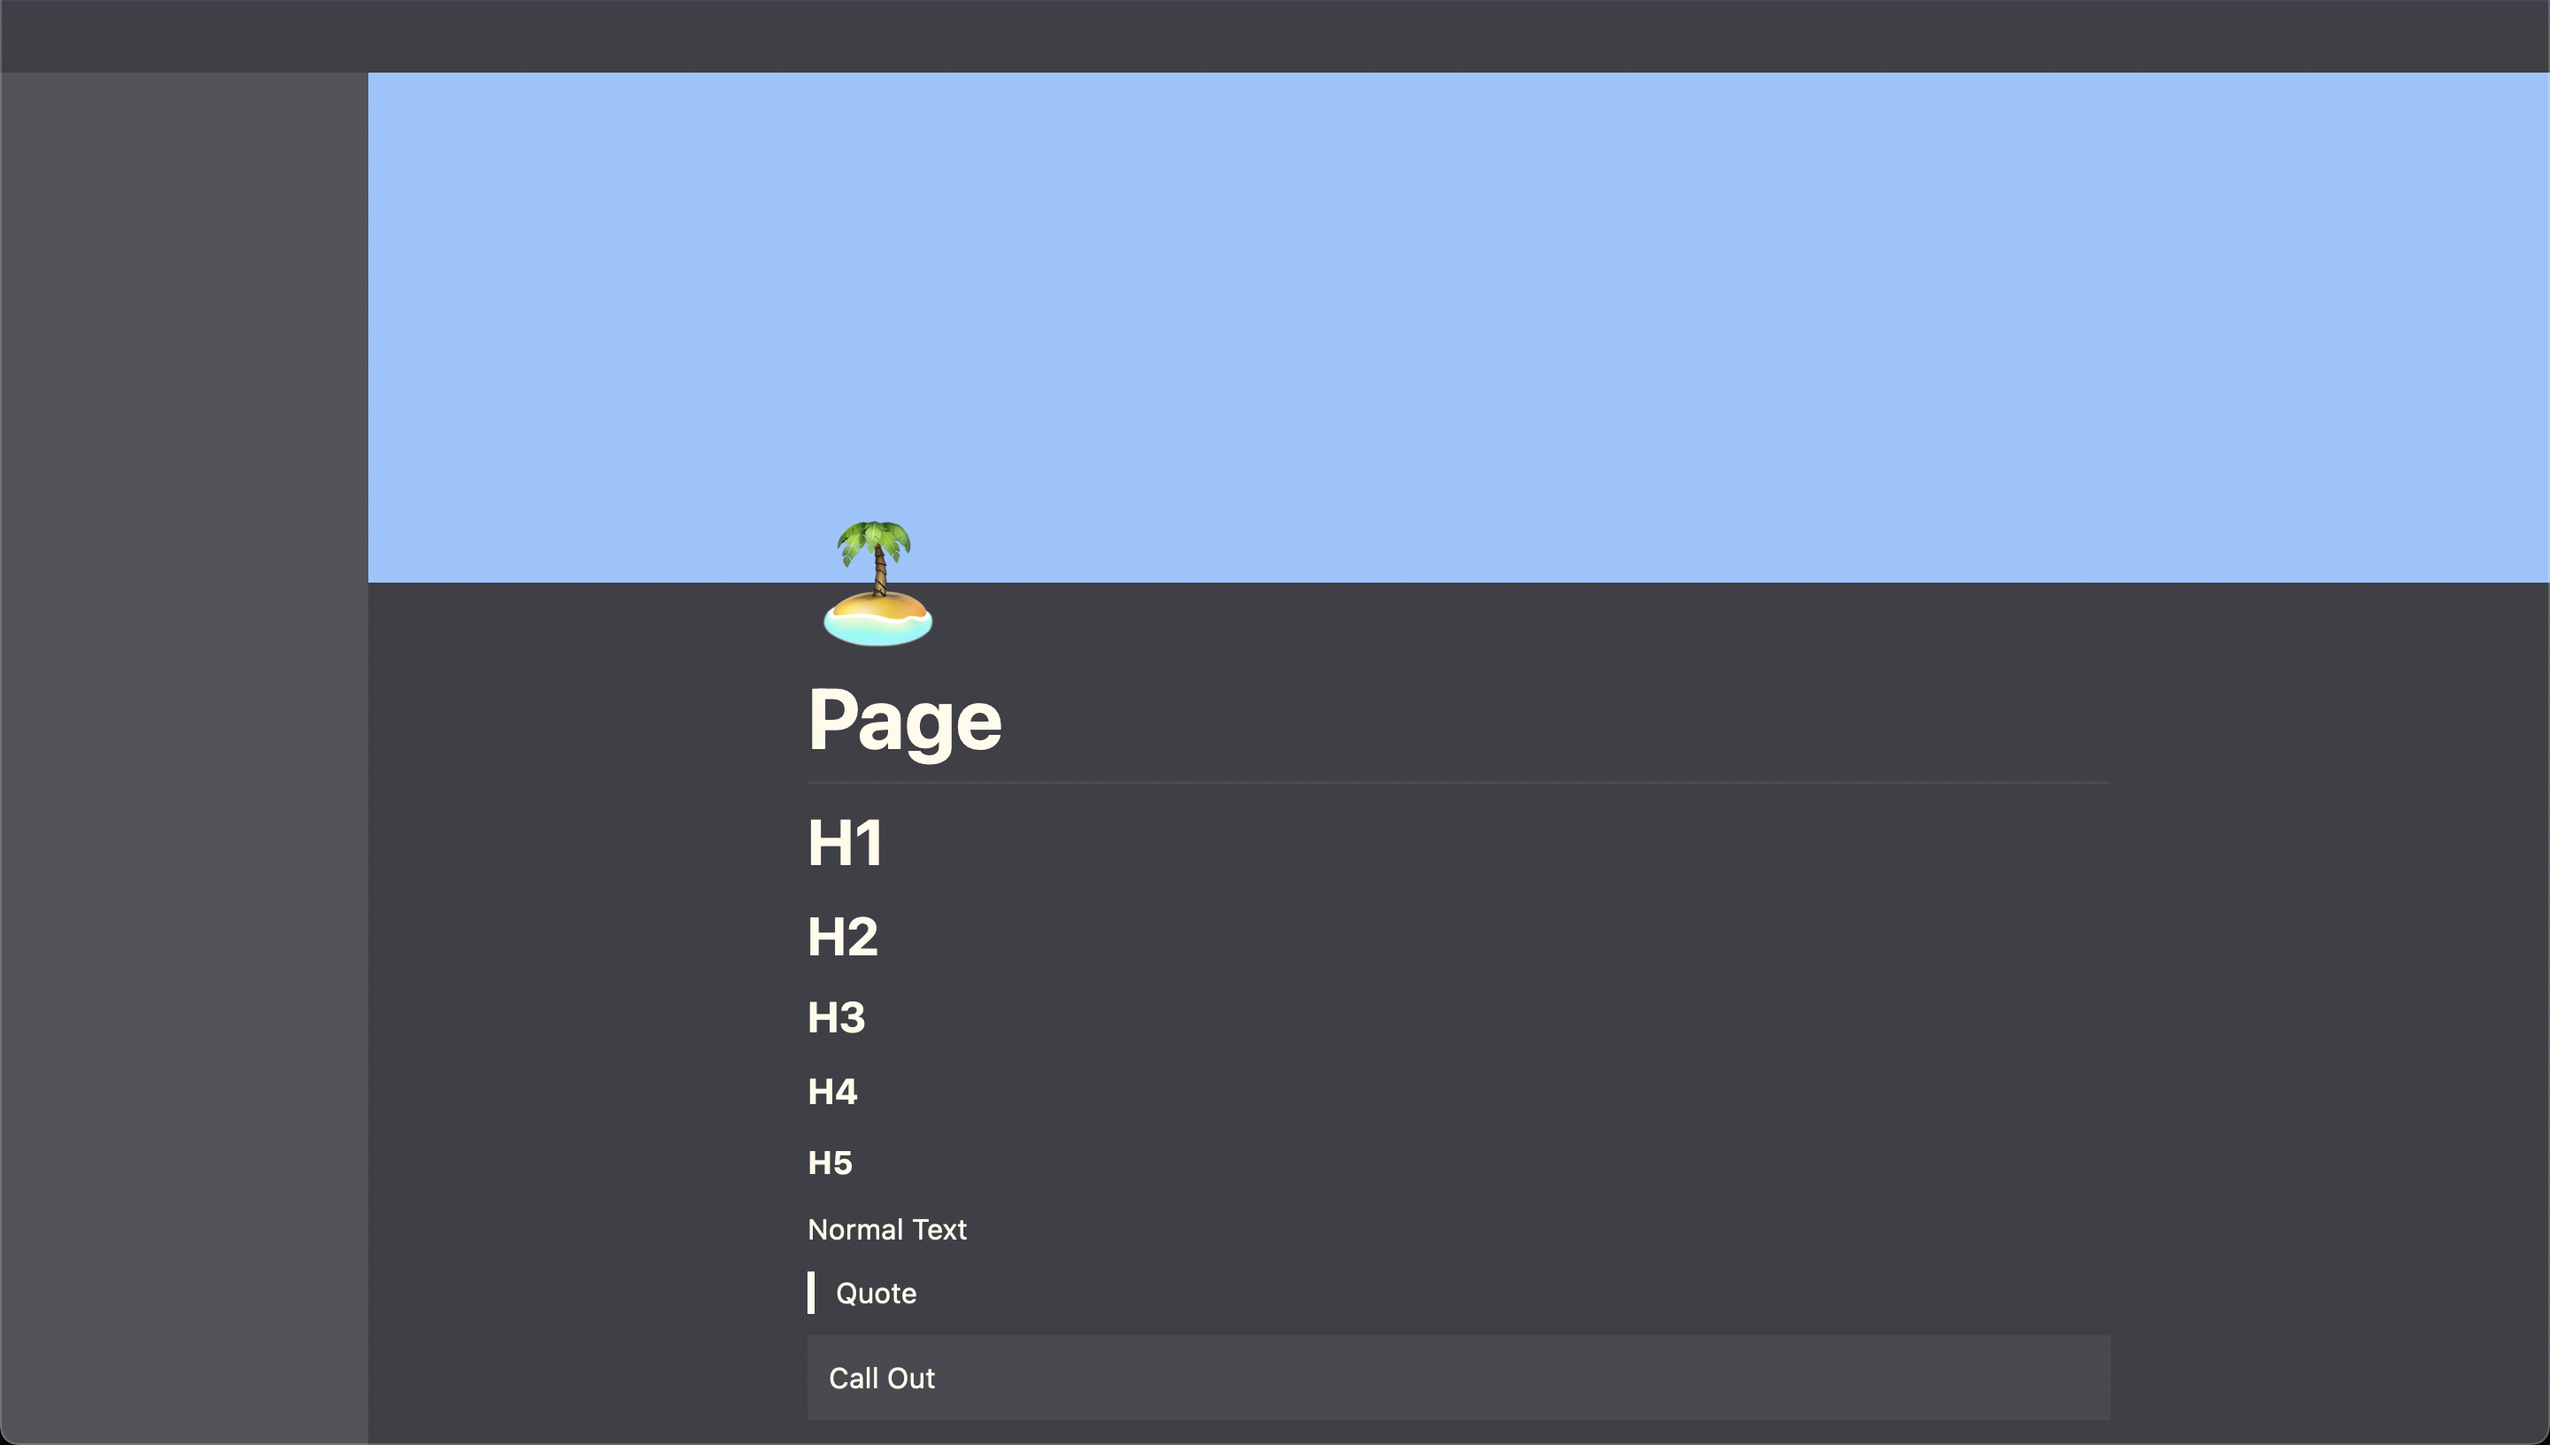
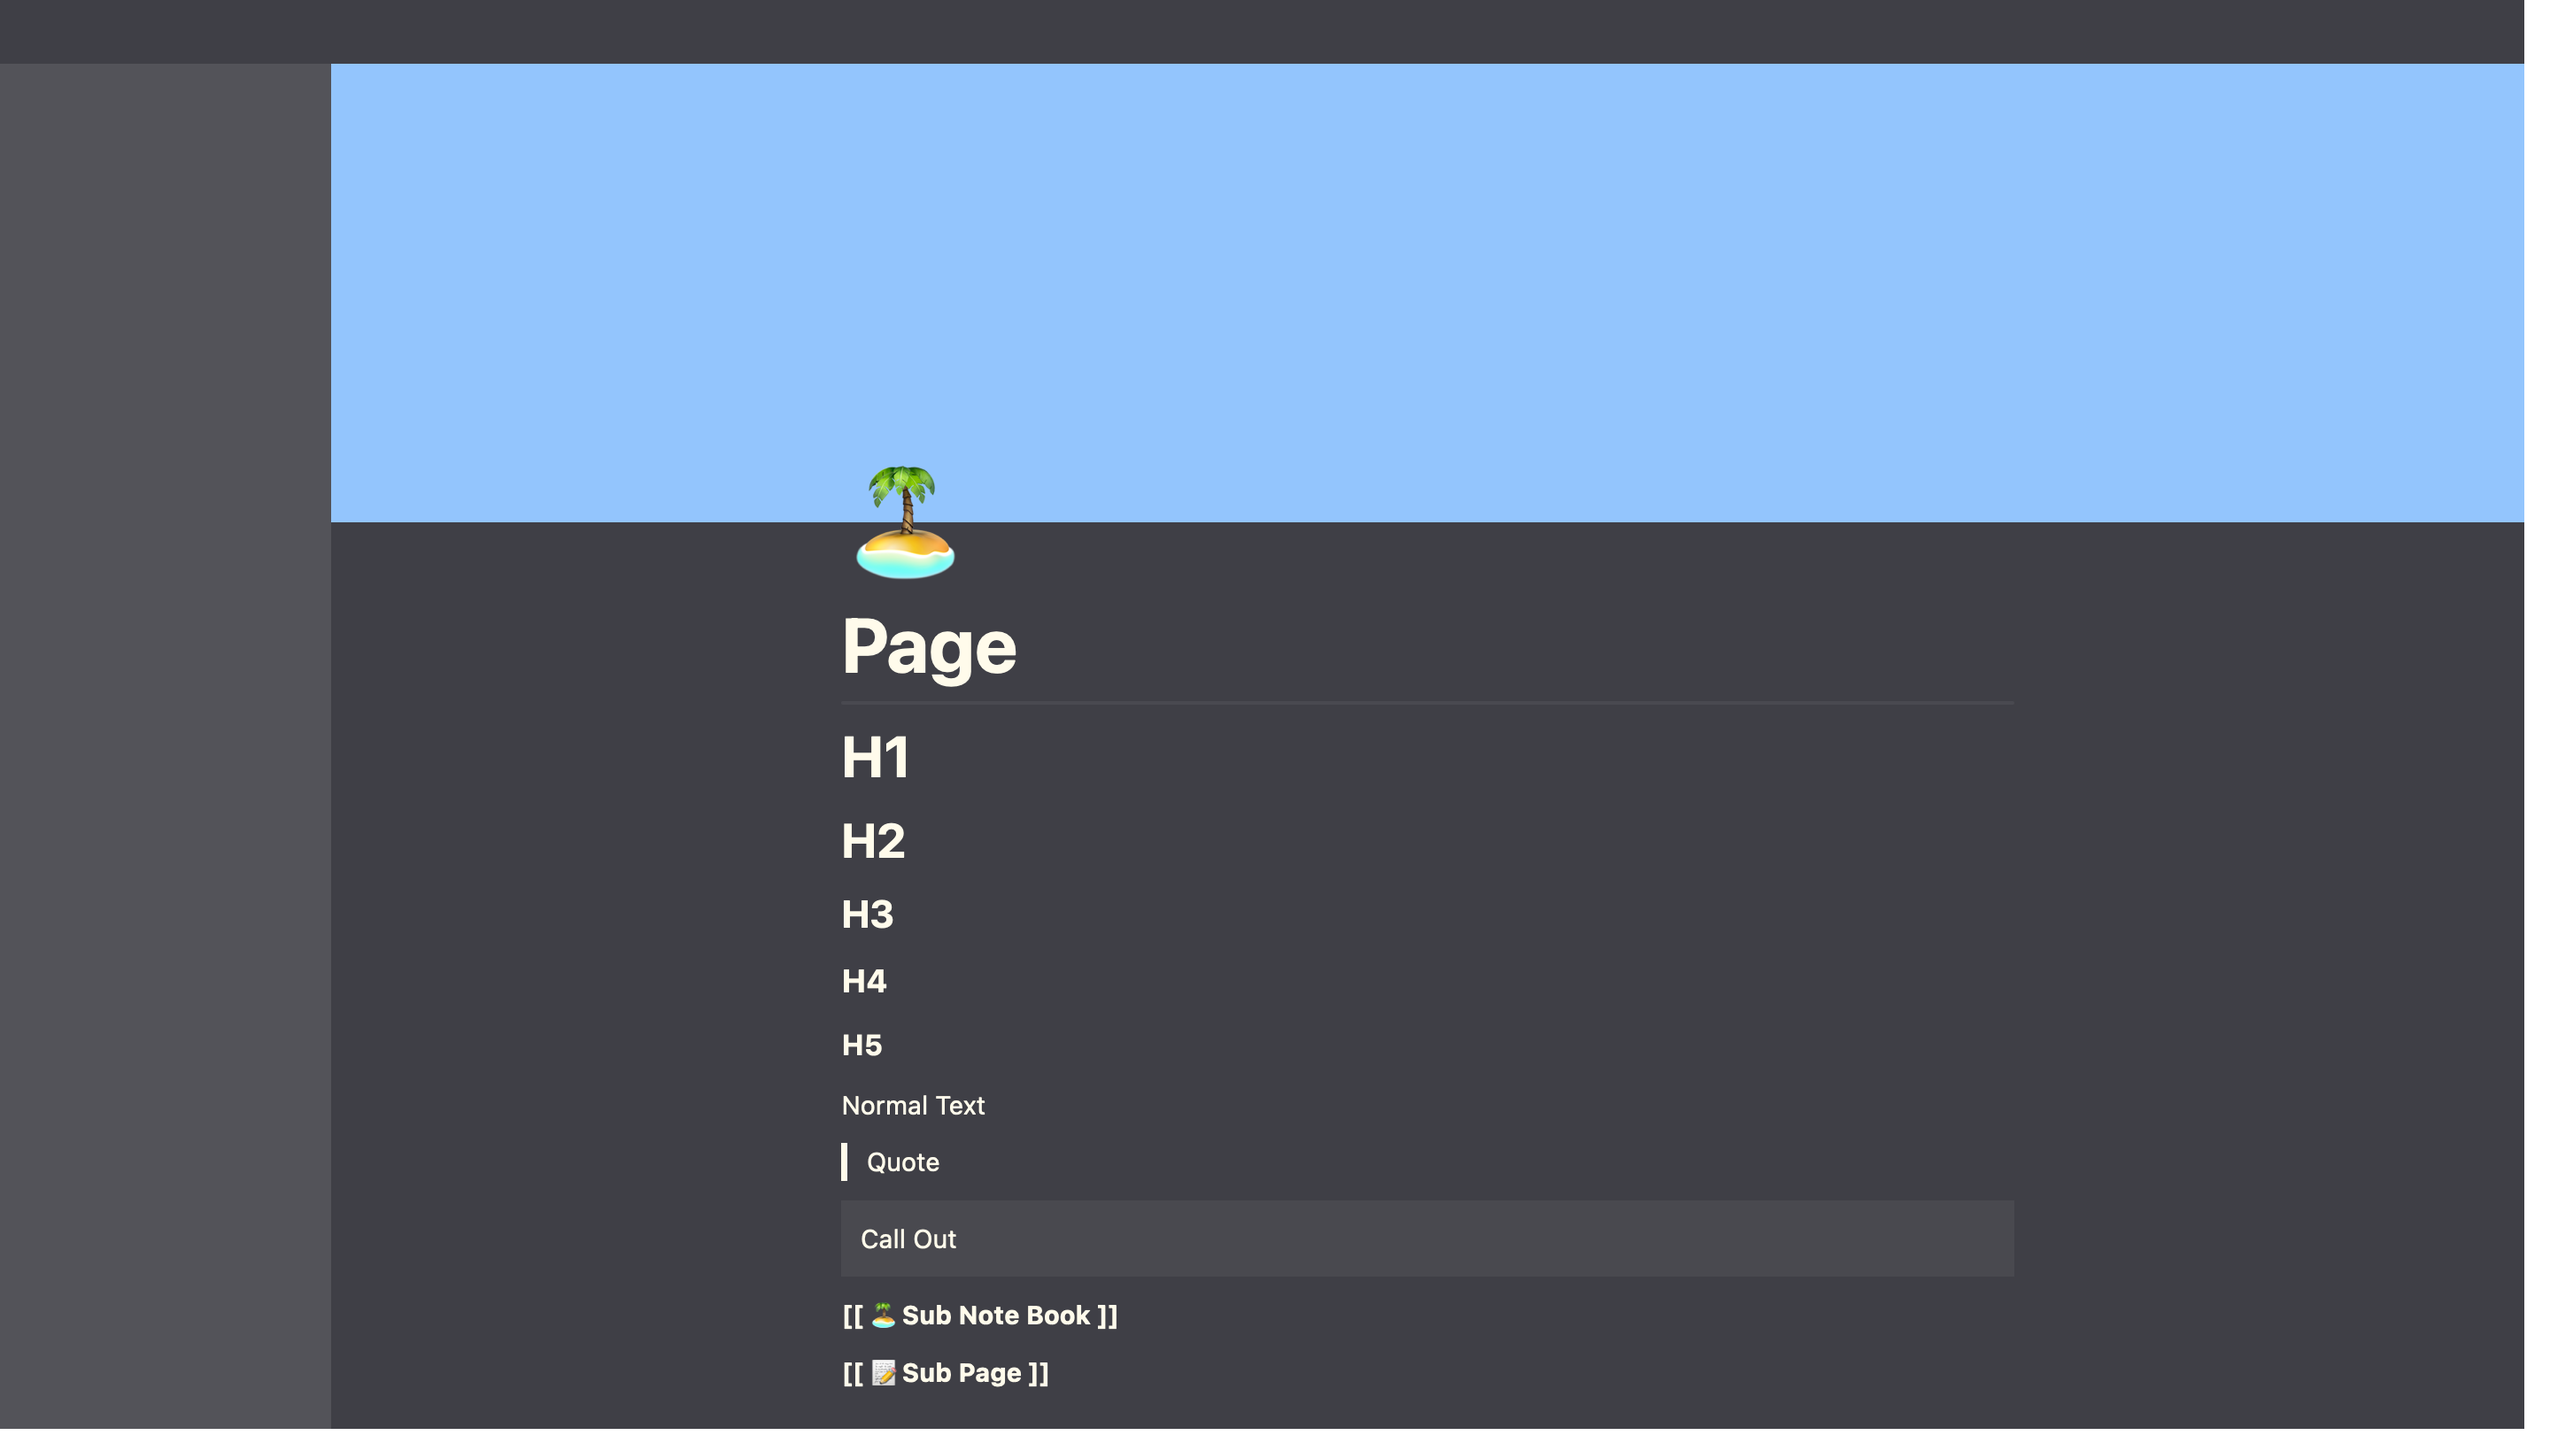
Updated read me file with progress

Changed region(s): [[0.0, 0.0, 1.0, 1.0]]

diff --git a/README.md b/README.md
@@ -18,7 +18,7 @@ Currently the planned features / features I hope to include in the final build a
   - [x] Page Icons
   - [x] Page Thumbnails
 - [ ] Multiple Pages
-  - [ ] Inline Pages
+  - [x] Inline Pages
   - [ ] Page Sidebar / Selector
   - [ ] Page Navigation
 - [ ] Block Command Menu Keybind "/"
